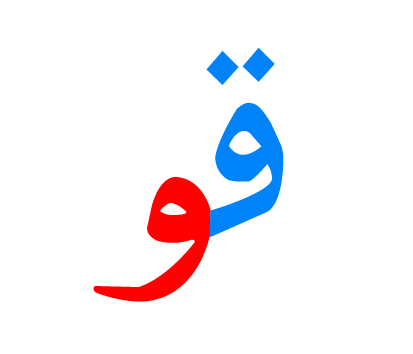
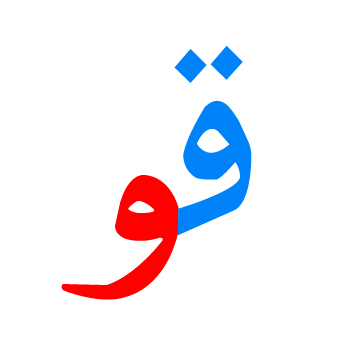
Remebers evrypages play index and added the 3rd page with variations

diff --git a/js/app.js b/js/app.js
@@ -11,18 +11,53 @@ const storageCtrl = (function() {
       data.current = JSON.parse(localStorage.getItem('pageNumber'));
       letterCtrl.getLetters(data.current);
     },
-    setStorageLoopIndex: function(loopIndex, loopIndexCurrent) {
-      localStorage.setItem('loopIndex', JSON.stringify(loopIndex));
-      localStorage.setItem(
-        'loopIndexPageNumber',
-        JSON.stringify(loopIndexCurrent)
-      );
+    setStorageLoopIndex: function(loopIndex, currentPageIndex) {
+      const data = letterCtrl.getData();
+
+      const storeloopingIndex = {
+        loopingIndex: loopIndex,
+        loopingIndexPageNumber: currentPageIndex
+      };
+
+      if (localStorage.getItem('loopIndex') === null) {
+        localStorage.setItem('loopIndex', JSON.stringify(loopIndex));
+        localStorage.setItem(
+          'currentPageIndex',
+          JSON.stringify(currentPageIndex)
+        );
+        data.playIndexArr.push(storeloopingIndex);
+      } else {
+        data.playIndexArr.forEach(index => {
+          if (data.playIndexArr[currentPageIndex]) {
+            if (
+              data.playIndexArr[currentPageIndex] ===
+              data.playIndexArr[index.loopingIndexPageNumber]
+            ) {
+              index.loopingIndex = loopIndex;
+              index.loopingIndexPageNumber = currentPageIndex;
+            }
+          } else {
+            data.playIndexArr.push(storeloopingIndex);
+          }
+        });
+        localStorage.setItem(
+          'loopIndexArray',
+          JSON.stringify(data.playIndexArr)
+        );
+      }
     },
     getStorageLoopIndex: function(current) {
       const data = letterCtrl.getData();
+      const playIndexArray = JSON.parse(localStorage.getItem('loopIndexArray'));
+
       if (
+        localStorage.getItem('loopIndexArray') !== null &&
+        playIndexArray[current]
+      ) {
+        data.playIndex = playIndexArray[current].loopingIndex - 1;
+      } else if (
         localStorage.getItem('loopIndex') !== null &&
-        current === JSON.parse(localStorage.getItem('loopIndexPageNumber'))
+        localStorage.getItem('loopIndexArray') === null
       ) {
         data.playIndex = JSON.parse(localStorage.getItem('loopIndex')) - 1;
       } else {
@@ -98,6 +133,7 @@ const uiCtrl = (function() {
     image: 'img',
     playBtn: '#playBtn',
     stopBtn: '#stopBtn',
+
     setBookMark: '#setBookMark',
     getBookMark: '#getBookMark'
   };
@@ -136,16 +172,38 @@ const uiCtrl = (function() {
     // Change the letter sizes depending on current page
     currentPageLetterSize: function(current) {
       const data = letterCtrl.getData();
+      const letterImg = document.getElementsByTagName(uiSelectors.image);
+      const img = Array.from(letterImg);
       // Change letter size depending on page
       if (data.letters[current] === data.letters[0]) {
         // Page 0 letter sizes
-        uiCtrl.changeLetterSize('5.5rem', 'auto');
+        uiCtrl.changeLetterSize('5.5rem', '4.71rem');
+        letterImg[0].style.width = '99.9%';
+        letterImg[0].style.padding = '5px';
       } else if (data.letters[current] === data.letters[1]) {
         // Page 1 letter sizes
-        uiCtrl.changeLetterSize('4.58rem', '3.67rem');
+        uiCtrl.changeLetterSize('4.58rem', '3.3rem');
+        letterImg[0].style.width = '99.9%';
+        letterImg[0].style.padding = '5px';
       } else if (data.letters[current] === data.letters[2]) {
         // Page 2 letter sizes
         uiCtrl.changeLetterSize('4.58rem', '3.3rem');
+      } else if (data.letters[current] === data.letters[3]) {
+        // Page 3
+        // All letter sizes
+        uiCtrl.changeLetterSize('5.5rem', '4.125rem');
+        letterImg[10].style.width = '9.16rem';
+        letterImg[11].style.width = '9.16rem';
+        letterImg[12].style.width = '9.16rem';
+        letterImg[13].style.width = '99.9%';
+        letterImg[13].style.padding = '5px';
+        const secondHalfLetters = img.slice(14);
+        secondHalfLetters.forEach(letters => {
+          letters.style.width = '6.87rem';
+        });
+        letterImg[18].style.width = '13.75rem';
+
+        letterImg[25].style.width = '13.75rem';
       }
     },
     highlightLetter: function(index) {
@@ -292,7 +350,8 @@ const appCtrl = (function(letterCtrl, uiCtrl) {
     const data = letterCtrl.getData();
     data.playIndex = 0;
     localStorage.removeItem('loopIndex');
-    localStorage.removeItem('loopIndexPageNumber');
+    localStorage.removeItem('currentPageIndex');
+    localStorage.removeItem('loopIndexArray');
     data.loopSound.pause();
     uiCtrl.playIcon();
   };
